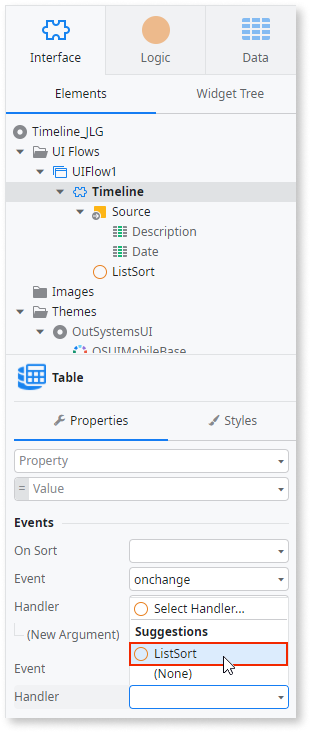
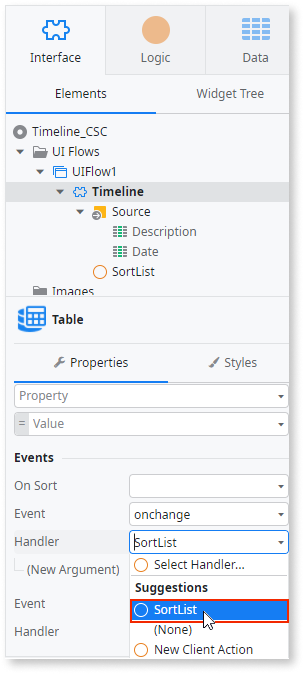
Changes suggested by André Vieira

diff --git a/src/eap/tutorial-2-create-library.md b/src/eap/tutorial-2-create-library.md
@@ -30,7 +30,7 @@ Follow these steps
 
     </div>
     
-1. Select **OutSystemsUI** and click **Add Dependency**.
+1. Select **OutSystemsUI Theme** and click **Add Dependency**.
 
     ![Add dependency](images/add-dependency-ss.png "Add dependency") 
 
@@ -101,11 +101,11 @@ In this case the source is provided by input parameters and structures to receiv
     </div>
 
 
-1. Right-click the **Timeline** block, select **Add Client Action**,  and call it `ListSort`.
+1. Right-click the **Timeline** block, select **Add Client Action**,  and call it `SortList`.
 
     ![Add event handler](images/add-event-handler-ss.png "Add event handler") 
 
-1. Select the table in the canvas, click the **Handler** dropdown, and select **ListSort**.
+1. Select the table in the canvas, click the **Handler** dropdown, and select **SortList**.
 
     ![Make listsort the handler](images/make-listsort-the-handler-ss.png "Make listsort the handler")  
 
@@ -117,7 +117,7 @@ In this case the source is provided by input parameters and structures to receiv
 
     ![Select action window](images/select-action-window-ss.png "Select action window") 
 
-1. With the **ListSort** action selected, click the **List** attribute dropdown and accept the OutSystems suggestion of **Source**.
+1. With the **SortList** action selected, click the **List** attribute dropdown and accept the OutSystems suggestion of **Source**.
 
     ![List sort attribute](images/list-sort-attribute-ss.png "List sort attribute") 
 
